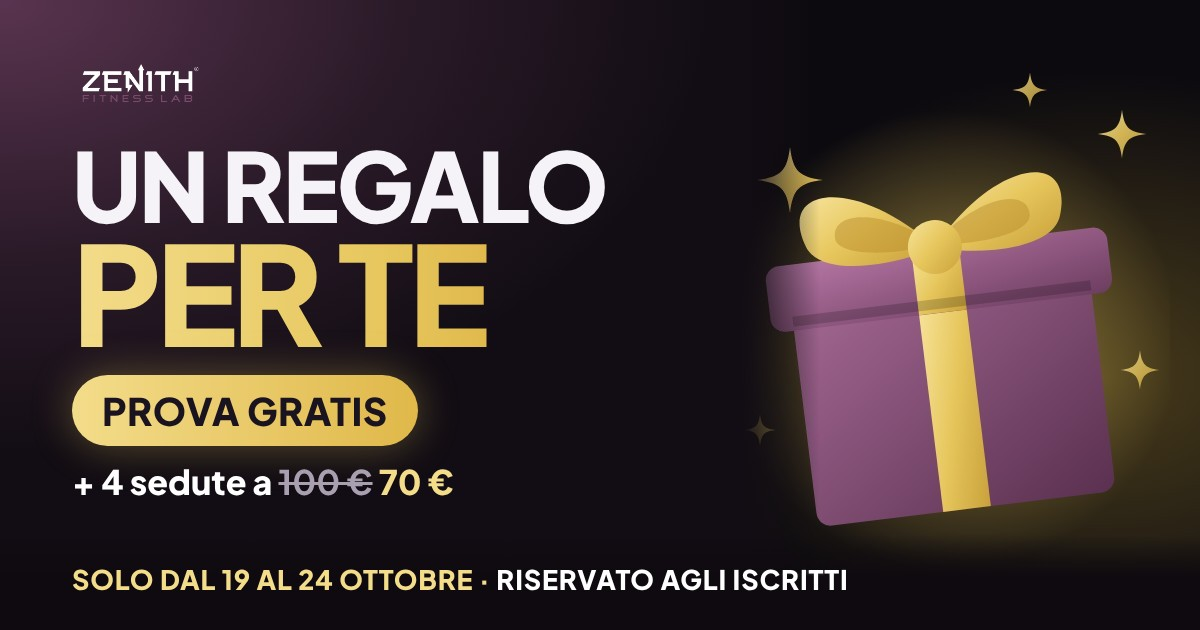
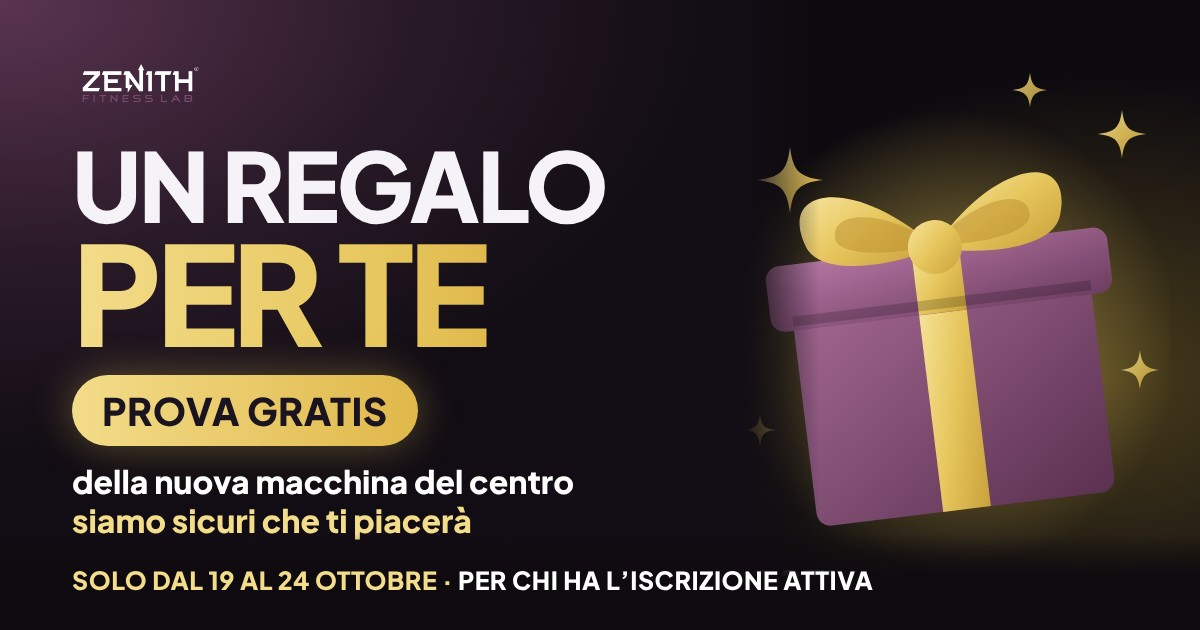
Regalo iscritti: niente prezzo né nome della macchina in messaggio, foto e agenda; foglio di fine prova 100 € → 70 €
Claude-Session: https://claude.ai/code/session_01MZRCdVi6adMs4Bac4AWRp5

Changed region(s): [[0.0617, 0.9048, 0.74, 0.9349], [0.0617, 0.7238, 0.4933, 0.7841], [0.0617, 0.8143, 0.4008, 0.8444]]

diff --git a/app/regalo/index.html b/app/regalo/index.html
@@ -6,12 +6,12 @@
 <meta name="robots" content="noindex, nofollow">
 <meta name="theme-color" content="#0c0a0f">
 <title>Zenith Fitness Lab · Un regalo per te</title>
-<meta name="description" content="Riservato a chi ha l'iscrizione attiva: prova gratis e 4 sedute a 70 € invece di 100, solo dal 19 al 24 ottobre.">
+<meta name="description" content="Riservato a chi ha l'iscrizione attiva: la prova della nuova macchina è il nostro regalo per te. Solo dal 19 al 24 ottobre.">
 <!-- l'anteprima che compare su WhatsApp quando si manda il link -->
 <meta property="og:type" content="website">
 <meta property="og:site_name" content="Zenith Fitness Lab">
 <meta property="og:title" content="Un regalo per te 🎁">
-<meta property="og:description" content="Prova gratis e 4 sedute a 70 € invece di 100. Solo per chi prenota dal 19 al 24 ottobre.">
+<meta property="og:description" content="La tua iscrizione è ancora attiva: la prova della nuova macchina te la regaliamo noi. Solo dal 19 al 24 ottobre.">
 <meta property="og:url" content="https://therightclickbooks-source.github.io/capsula/app/regalo/">
 <meta property="og:image" content="https://therightclickbooks-source.github.io/capsula/app/regalo/regalo.jpg">
 <meta property="og:image:type" content="image/jpeg">
@@ -149,11 +149,11 @@ input.tel:focus{border-color:var(--oro)}
 .regalo{margin-top:4px; padding:18px 16px 16px; border-radius:24px; text-align:center; border:2px solid var(--oro);
   background:radial-gradient(120% 90% at 50% 0%,rgba(230,198,92,.28),transparent 70%),rgba(255,255,255,.04)}
 .regalo .rk{font-size:13px; letter-spacing:.2em; font-weight:800; color:var(--oro)}
-.regalo .rt{font-size:30px; font-weight:800; line-height:1.1; margin-top:6px} .regalo .rt b{color:var(--oro)}
+.regalo .rt{font-size:27px; font-weight:800; line-height:1.1; margin-top:6px} .regalo .rt b{color:var(--oro)}
 .regalo .rp{display:flex; flex-direction:column; align-items:center; margin-top:10px}
 .regalo .r1{font-size:18px; font-weight:700} .regalo .r1 b{font-weight:800}
 .regalo .r2{font-size:40px; font-weight:800; line-height:1.05; letter-spacing:-.02em} .regalo .r2 s{font-size:24px; color:var(--muted, #a49eae); font-weight:700} .regalo .r2 b{color:var(--oro)}
-.regalo .rs{margin-top:6px; font-size:14px; font-weight:700; color:#f3dc8a}
+.regalo .rs{margin-top:8px; font-size:15px; line-height:1.35; font-weight:700; color:#f3dc8a}
 .regalo + .step{margin-top:18px}
 .periodo{margin-top:14px; border-radius:24px; padding:18px 16px 18px; text-align:center; color:#1a1320;
   background:linear-gradient(140deg,#f7e39a,#e6c65c 55%,#c9a13a); box-shadow:0 18px 44px -18px rgba(230,198,92,.7)}
@@ -210,9 +210,8 @@ input.tel:focus{border-color:var(--oro)}
   <section class="scena" id="s-cal">
     <div class="intro" id="intro">
       <div class="regalo"><div class="rk">🎁 UN REGALO PER TE</div>
-        <div class="rt">La tua prova è <b>gratis</b></div>
-        <div class="rp"><span class="r1">e poi <b>4 sedute</b></span><span class="r2"><s>100 €</s> <b>70 €</b></span></div>
-        <div class="rs">solo se prenoti questa settimana</div></div>
+        <div class="rt">La prova della <b>nuova macchina</b> te la regaliamo noi</div>
+        <div class="rs">perché la tua iscrizione è ancora attiva. Siamo sicuri che ti piacerà.</div></div>
       <span class="step"><i>✓</i> SCEGLI IL TUO GIORNO</span>
       <div class="periodo"><small>SOLO PER CHI HA L'ISCRIZIONE ATTIVA</small><b id="titolo">DAL 19 AL 24<br>OTTOBRE</b>
         <p id="lead">Scegli un giorno e un orario qui sotto. Chi prima prenota, sceglie.</p></div>
@@ -238,7 +237,6 @@ input.tel:focus{border-color:var(--oro)}
         <div>⏱ <span>Arriva <b>5 minuti prima</b>: la prova dura circa 20 minuti.</span></div>
         <div>👕 <span>Vieni <b>comodo</b>, resti vestito. I calzini antiscivolo te li diamo noi.</span></div>
         <div>💬 <span>Prima della prova ti facciamo <b>poche domande</b> su come stai: è da lì che nasce la tua seduta.</span></div>
-        <div>🎁 <span>Dopo la prova: <b>4 sedute a 70 €</b> invece di 100, riservate a te.</span></div>
       </div>
     </div>
     <button class="btn oro" id="ics">📅 Aggiungi al calendario del telefono</button>
